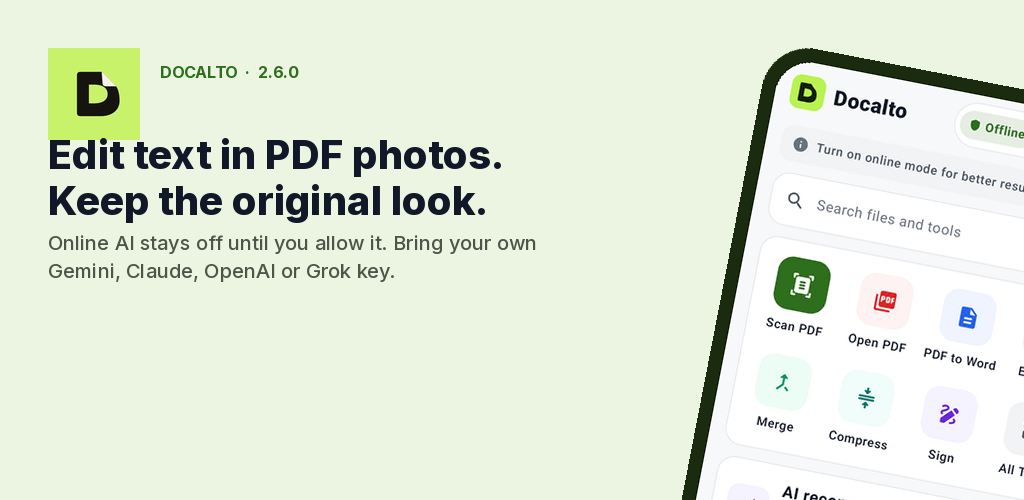
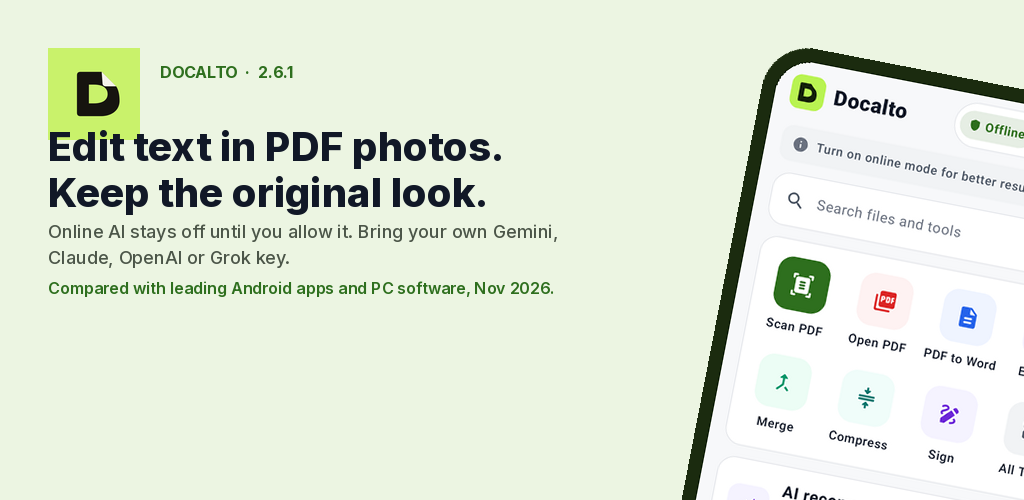
Docalto 2.6.1: Android and PC comparison, softer terms changelog, and screenshots

Changed region(s): [[0.0312, 0.24, 0.5625, 0.6], [0.2812, 0.12, 0.3125, 0.15]]

diff --git a/COMPARISON.md b/COMPARISON.md
@@ -1,12 +1,20 @@
+# Docalto compared with leading Android apps and PC software
+
+Factual comparison, not a ranking. Researched 25 November 2026 (Android) and 26 November 2026 (PC), Asia/Calcutta (IST). Staged for the 2.6.1 release; do not publish until the rebuild is ready.
+
+“Only in Docalto” is limited to the leading Android apps compared in November 2026. It is not a claim that no desktop product has a related function. Several desktop products go further as professional PDF or office software. Foxit PDF Editor’s official 2026.2 pages describe Local AI and a customer-configured OpenAI-compatible model. PDF24 Creator is a free Windows toolkit that officially keeps files on the PC.
+
+---
+
 # Docalto 2.6.0 compared with leading Android document apps
 
 Researched on **25 November 2026** (Asia/Calcutta, IST) for Docalto 2.6.0 (versionCode 16), package `com.tordroid.docalto`. This is a factual comparison, not a ranking, and not a claim that Docalto replaces every desktop, cloud or office product.
 
-Docalto facts come from the 2.6.0 app, changelog and store listing. Competitor facts come from official help, pricing and Play listing pages fetched or searched on 25 November 2026. Source URLs are in [`sources.md`](sources.md). Where a fact could not be confirmed, it is listed under [Not verified](#not-verified) and is **not** used as a uniqueness claim.
+Docalto facts come from the 2.6.0 tree on branch `redesign-2.6` (`CHANGELOG.md`, `STORE_LISTING.md`, `FEATURES.md`, `PRIVACY_POLICY.md`, and the All Tools list in `HomeShell.kt`). Competitor facts come from official help, pricing and Play listing pages fetched or searched on 25 November 2026. Source URLs are in [`sources.md`](sources.md). Where a fact could not be confirmed, it is listed under [Not verified](#not-verified) and is **not** used as a uniqueness claim.
 
 Prices change by country and over time, so this document describes paywalls (free limits, subscriptions, ads, watermarks) rather than exact rupee or dollar amounts.
 
-A scrollable comparison table is on the website: [docalto.tordroid.com/#compare](https://docalto.tordroid.com/#compare).
+A website-ready HTML table is in [`comparison-table.html`](comparison-table.html). Short Play and in-app wording is in [`short-versions.md`](short-versions.md).
 
 ## What Docalto 2.6.0 actually does
 
@@ -108,3 +116,117 @@ These were looked for and could not be confirmed from official pages in this pas
 ## Limits of these claims
 
 Docalto is Android-only. WPS, Acrobat, iLovePDF, Xodo and Microsoft products cover more platforms. WPS and Microsoft 365 are fuller office suites. Acrobat Pro on the desktop remains a deeper professional PDF standard. Genius Scan and Adobe Scan may out-focus Docalto as dedicated cameras. This comparison does not measure OCR accuracy, scan quality, speed or battery use.
+
+---
+
+# Docalto compared with leading PC document software
+
+Researched on **26 November 2026** (Asia/Calcutta, IST) for Docalto 2.6.0 (versionCode 16). Same rows and marks as the Android comparison in [`comparison.md`](comparison.md). Factual, not a ranking. Official pages only; URLs are under [Sources](#sources). **Unknown** or **Not found** is not used as a uniqueness claim.
+
+The eight desktop products, as requested: **Adobe Acrobat Pro**, **WPS Office (PC)**, **Wondershare PDFelement**, **Foxit PDF Editor** (official 2026.2), **Nitro PDF Pro**, **PDF24 Creator** (Windows, 11.35.0), **Microsoft Word / Microsoft 365**, and **ABBYY FineReader PDF**.
+
+Marks: **Yes** = official pages describe it. **Paid** = behind a subscription or licence. **Cloud** = uploaded or saved to that company’s storage by default. **Mixed** = depends on the tool, or both a local and a cloud path exist. **Not found** = not described on the official pages read in this pass. **Unknown** = the pages do not settle the point. Prices are described as paywalls, not exact amounts.
+
+## Key points
+
+- Several desktop products go **further** than Docalto as professional PDF or office software. Acrobat Pro, FineReader PDF, Foxit, PDFelement and Nitro officially go deeper on typographic PDF work, OCR, redaction, comparison or batch jobs. WPS Office and Microsoft 365 Word are fuller office suites. That should be said first.
+- **Foxit PDF Editor** official 2026.2 pages describe Local AI on the device (after a Microsoft Foundry Local model download) and **Bring Your Own Model** for an OpenAI-compatible endpoint you configure. Press material also names GPT and Gemini. So “your own key” is not distinctive against every PC product. Acrobat’s official AI Assistant is Adobe’s own cloud assistant and needs an Adobe ID.
+- **PDF24 Creator** is a free Windows toolkit that officially works offline, keeps files on the PC, and needs no account (with named exceptions such as fax, Cloud Print, update checks and OCR language downloads). It is Windows-only, and typographic photo-text inpainting, permanent redaction and visual PDF compare were not found on the official Creator page.
+- Desktop OCR editors (especially Acrobat Pro and FineReader) officially make scanned pages searchable and editable, often with deeper typography and layout tools than a phone inpainting editor. Docalto-style inpainting of handwriting in a photo on a PDF page was **not found in those words** on the official PC pages read.
+- What remains honest for Docalto: a **phone** toolkit — 75 tools, no account, no document upload, 15 app languages including 11 widely used in India, photo-text inpainting on the device, and Online AI off until you allow it. Among **leading Android apps** (25 November 2026), that combination was not found in the same form. That Android finding still stands. It must not be stretched to mean “not on any PC.”
+- Still **not found in the same form** on the official PC pages in this pass (not a worldwide exclusive): File Rescue, a fill marked “Filled in, not recovered,” and offline India CCA signature checks.
+
+## Comparison table
+
+| Topic | Docalto 2.6.0 (Android) | Acrobat Pro (desktop) | WPS Office (PC) | PDFelement (desktop) | Foxit PDF Editor (desktop) | Nitro PDF Pro (desktop) | PDF24 Creator (Windows) | Word / Microsoft 365 (desktop) | ABBYY FineReader PDF (desktop) |
+| --- | --- | --- | --- | --- | --- | --- | --- | --- | --- |
+| What it is | PDF toolkit, scanner and on-device tools in one Android app | Professional desktop PDF editor for Windows and macOS | Full office suite (Writer, Sheets, Slides) plus a PDF editor, on Windows, macOS and Linux | Desktop PDF editor for Windows and macOS (a Windows licence cannot be used on a Mac) | Desktop PDF editor for Windows and macOS (official 2026.2 line at this pass) | Desktop PDF editor for Windows and macOS (official Windows 26.4.4.1, 24 Nov 2026) | Free Windows-only PDF toolkit, virtual PDF printer and reader. No official macOS or Linux app | Desktop word processor that can open some PDFs by converting them, and can export to PDF. Not a full PDF editor | Desktop OCR and PDF editor. Windows Standard or Corporate; the Mac product has the same OCR and a more limited PDF set |
+| Offline-first / where files are processed | Yes. Documents are processed on the phone and are not uploaded. Model packs and an optional signature timestamp (hash only) may use the network. | Mixed. Official FAQ: the desktop app is installed locally and can be used offline after first activation; a subscription must reconnect periodically (typically every 30 days). AI Assistant requires an internet connection and a signed-in Adobe ID. E-sign and sharing need a network. Official: IT can turn off cloud services. Acrobat Pro 2024 is described as desktop-only, without Document Cloud or AI. | Mixed. Local PDF editing is a desktop-app feature. Official Windows guides: editing and OCR require WPS membership. Cloud sync, sharing and WPS AI need the network when you use them. Where OCR actually runs (device or server) was not fully confirmed. | Mixed. Official tech spec: an internet connection is required for activation, help, translation, cloud functions and live updates. Ordinary editing is a local desktop app. PDFelement Cloud is an optional path. Where AI-OCR runs was not fully confirmed. | Mixed. Core editing is a local desktop app. Official Local AI (2026.2): after you download a model through Microsoft Foundry Local, supported inference, processing and storage stay on the device and can work offline. Cloud mode, Skills, MCP connectors and “edit a PDF by chat” are official cloud-mode features. Bring Your Own Model sends requests to the endpoint you configure. | Mixed. A licensed desktop editor for create, edit, export and OCR. Official Smart Redact (a separate add-on) “processes files in a temporary session with no storage or data retention,” which is not the same as a purely local edit. The default edit path is not described as clearly as PDF24’s “files are not uploaded” wording. | Yes. Official: a desktop solution that works offline; files remain on the PC and are not uploaded. Official help names exceptions that do go online: fax, Cloud Print, the update check, downloading OCR language data, and links to the online tools. | Mixed. Desktop Word works on local files. A Microsoft account is used for a Microsoft 365 subscription and for Copilot. Official “Save as PDF” can offer OneDrive as a location. Copilot is an online Microsoft service. | Mixed. FineReader PDF is licensed desktop software for local OCR and PDF work. No official page in this pass said ordinary OCR uploads the document. Licence activation or any optional online service was not fully mapped, so the licence phone-home is Unknown. |
+| Account required | No | Yes, for the usual subscription: official pages say you sign in with an Adobe ID to install, activate and, periodically, to validate the licence. An Adobe ID is also required for AI Assistant and for cloud / e-sign services. Acrobat Pro 2024 official: after first activation it can be used without Document Cloud services. | Not required for installing and opening files. Official guides: PDF content editing and OCR on Windows require WPS membership. A WPS account is used for cloud and some AI features. | Not required to download and try the app. A licence / registration is required to remove trial limits. A Wondershare ID is used for cloud, sharing and AI trials on official store and register pages. | A licence is required for PDF Editor. Official Local AI is included in Editor and also in the free Foxit PDF Reader on desktop. Sign-in requirements for Foxit AI Assistant cloud plans were not fully mapped (Mixed). | Official downloads page: an active Nitro subscription or licence is required to use the product. | No | A Microsoft account is required for a current Microsoft 365 subscription and for Copilot. Once installed, desktop Word can open local files. | A paid Standard or Corporate (or Mac) licence is required. Whether a FineReader account is also required for the desktop app was not fully confirmed (Unknown). |
+| Files leave the device by default | No | No, for ordinary local editing after the app is installed. Yes if you use Adobe cloud storage, AI Assistant, or other official online services. | No, for ordinary local work. Yes if you use WPS cloud, sharing or WPS AI. | No official page in this pass said unsaved local editing uploads the file by default. Yes if you use PDFelement Cloud, translation (officially needs internet) or online AI features. | No, for ordinary local editing, and no for official Local AI after the model is downloaded. Yes for Cloud mode. Yes for Bring Your Own Model, which official pages say sends requests to the external service you configure. | Unknown for ordinary editing. Official Smart Redact uses a temporary session with no retained storage. | No, with the official exceptions listed above. | No, if you save a PDF to a folder on the computer. Yes if you save to OneDrive or use Copilot. | Not found as a default upload for ordinary local OCR or edit. Unknown for any optional online extras. |
+| Bring-your-own AI key (Gemini, Claude, OpenAI, Grok / xAI) | Yes. Optional, off until you turn Online mode on. Keys stay encrypted on the phone. Gemini, Claude, OpenAI, xAI, or an OpenAI-compatible service. | Not found. Official AI Assistant is Adobe’s own assistant. It requires being online, signed in with an Adobe ID, and a plan or add-on that enables generative AI. A customer-supplied Gemini, Claude, OpenAI or Grok key was not found. | Not found. Official pages describe WPS AI (summarise, translate, explain, ask questions). A customer-supplied key for those providers was not found. | Not found. Official feature list describes built-in AI (ask, summarise, rewrite, translate, proofread). A customer-supplied key for Gemini, Claude, OpenAI or Grok was not found. | Yes, in official 2026.2 material, as Bring Your Own Model / an OpenAI-compatible endpoint. Official Local AI page: you can point Local AI at an OpenAI-compatible model you already run or pay for; “Requests go to the external service you configure.” Official 1 September 2026 press and the product comparison datasheet also name GPT and Gemini among supported models. This is not identical to Docalto’s phone-side, encrypted, off-until-allowed key list (Claude and Grok were not named on the pages read), but it is a real customer-configured model path on the desktop. Local mode itself uses models from Microsoft Foundry Local, which is a different path from bringing your own key. | Not found as a customer-supplied Gemini, Claude, OpenAI or Grok key. Official Smart Redact is a Nitro AI add-on, not a key you supply. | Not found. Official Creator pages in this pass do not describe a generative AI assistant or a customer-supplied model key. | Not found. Official Microsoft 365 desktop Word uses Microsoft Copilot, not a customer-supplied key for those providers. | Not found in FineReader PDF official pages. ABBYY Vantage (a different product) describes customer provider keys; that was not treated as a FineReader PDF feature. |
+| Edit text that appears inside photos or scans in a PDF | Yes. On-device OCR and inpainting; optional online style reading when Online mode is on. Aims to keep the original font, size, colour and handwriting. | Paid / Yes for scanned-page editing. Official: OCR turns scans into searchable and editable PDFs, “recognize[s] fonts and formatting, so the new PDF matches your original paper document,” and you can make edits on the spot. This is a deep desktop scan editor. In-place inpainting of a photo that sits on a PDF page, described in Docalto’s handwriting-matching words, was not found on the pages read. | Paid. Official Windows OCR guide: turn scanned PDF text into selectable, searchable and editable text; some scans need OCR first; membership is required. Inpainting of photo text in Docalto’s form was not found. | Paid. Official: AI-OCR on scans; “Edit, delete, cut, copy, paste, and insert new text and images in scanned (image) PDFs using OCR.” Inpainting of photo-in-PDF text in Docalto’s form was not found. | Paid. Official datasheet: OCR, and “Editable Text mode turns OCR output into a fully paragraph-editable document.” Inpainting wording was not found. | Paid. Official: OCR converts scans or image PDFs into searchable, editable text (including a hidden text layer), with batch OCR and deskew tools. Inpainting wording was not found. | Mixed. Official: OCR recognises text in PDFs and images and creates a PDF with a text layer. Full typographic, in-place editing of handwriting inside a photo on a page was not found on the Creator page. | Limited. Official Microsoft help: Word opens a PDF by converting a copy; “This works best with PDFs that are mostly text”; “PDFs of book chapters or something that looks like a manuscript from a copier won’t be formatted well.” Image-based text may not be editable. | Paid / Yes for scanned-page editing. Official: edit scanned PDFs almost like a Word document, rewrite paragraphs, edit table cells, reflow text, and use an Eraser tool. Professional OCR in 198 languages. This is a deep desktop scan editor. Docalto-style inpainting of handwriting in a photo on a PDF page was not found in those words. |
+| Flows / automation | Yes. On-device Flow: chain tools, ready-made flows, and AI steps. | Yes, Paid. Official plans page: Action Wizard in Acrobat Pro runs custom sequences (for example OCR, redaction, watermarking and conversion) on multiple PDFs; batch processing applies the same edits or security settings across documents. | Not found as a user-built, first-class PDF tool pipeline on the official PC pages read. | Paid. Official: batch process — convert, create, compress, edit, encrypt, extract data and print multiple PDFs at once. | Mixed / Cloud for the newest automation. Official 2026.2: Skills complete recurring document tasks; MCP connectors exist in Workspace / cloud mode. Official Local AI table: Skills and MCP are not available in Local mode. | Paid, in part. Official: batch OCR. A general user-built action wizard was not fully mapped in this pass. | Yes, for recurring desktop jobs. Official: profiles for recurring tasks, batch file tools, and PDF printer profiles. | Not found as a PDF tool pipeline. Word has its own document automation; that is not a PDF Flow. | Mixed. Official Corporate materials describe advanced conversion routines. A user-built Flow-style designer was not clearly described in this pass. |
+| Size of the toolkit | 75 tools listed in All Tools, including merge, split (including by size), compress, edit, forms, OCR, convert, PDF/A, compare, repair, File Rescue, signatures, study tools and Flow. | A large professional PDF toolkit. Official pages cover edit, OCR, convert to and from Office, compress, merge and split, redact, compare, e-sign workflows, Action Wizard, passwords and permissions. Deeper than Docalto for professional desktop PDF work. | A full office suite plus PDF tools (edit, merge, split, compress, OCR, convert, sign). Broader as an office suite than Docalto; PDF depth depends on the Premium feature set. | A large desktop PDF toolkit. Official feature and tech-spec pages cover edit, AI-OCR, annotate, convert, forms, batch, Bates numbering, compress, sign, headers, watermarks and more. | A large desktop PDF toolkit. Official datasheet: edit, organise, compare, OCR, export, forms and XFA, passwords and certificates, redaction, PDF/A, PDF/E and PDF/X, accessibility tagging, portfolios, and AEC measurement tools. | A large desktop PDF and e-sign suite. Official pages: create, edit, export, combine and split, password security, OCR, redaction; document comparison is listed in official macOS 26 release notes. | A large free Windows toolkit. Official: merge, split, page organise, convert, compress, OCR, PDF/A and PDF/X, PDF printer, scanner and camera import, screen capture, batch tools, passwords, watermarks and signatures as save options. Some professional tools (permanent redaction, visual PDF compare, typographic in-place edit) were not found on the Creator page. | A full word processor and office suite, with PDF as an import-by-conversion and export format, not a 75-tool PDF workshop. Official: Save as PDF, including a PDF/A option, and password-encrypt the PDF. | A deep OCR, conversion and PDF-editing toolkit. Official Corporate Windows also adds document comparison across formats. Mac official: same OCR, limited PDF features. |
+| App / interface languages, including Indian languages | 15 app languages: English, Hindi, Bengali, Gujarati, Kannada, Malayalam, Marathi, Odia, Punjabi, Tamil, Telugu, Urdu, Arabic, Russian and Simplified Chinese (11 of these are widely used in India). | Unknown. Widely localised as a product. A complete official count of Indian interface languages was not re-counted in this pass. Official generative-AI file languages are a shorter list and are not the same as the app UI list. | Unknown. Widely localised. A complete official Indian-language UI count was not re-counted. Official WPS AI translate claims 100+ target languages; that is translation, not the app UI. | Unknown. Widely localised. Official AI translate: “50+ languages.” A complete official Indian-language UI count was not re-counted. | Unknown. Widely localised. A complete official Indian-language UI count was not re-counted. | Unknown. A complete official UI language list was not re-counted. Official OCR pages mention legal and medical dictionaries; that is not a UI language list. | Unknown. Official marketing says “Many translations.” A complete official Indian-language UI count was not found. | Unknown. Microsoft 365 is widely localised. A complete official Indian-language UI count was not re-counted. | Official OCR: 198 recognition languages. Official Corporate comparison: 40 comparison languages. The complete official UI language list, including Indian scripts, was not re-counted. |
+| Price (typical paywall) | Free to install. Some tools may show a rewarded ad or a daily cap. Premium removes ads and limits. No document watermark. | Paid subscription for current Acrobat Pro (plans also describe Acrobat Standard, and Acrobat Studio which adds AI Assistant and other extras). AI Assistant is a plan feature or add-on on official plan pages. A separate Acrobat Pro 2024 3-year term licence is sold without cloud or AI. | Free to install the suite. Official Windows guides: PDF content editing and OCR require WPS membership / Premium. | Paid licence or subscription, sold per platform. Official support: the unregistered trial adds a watermark when you save an edited PDF; registering / licensing removes it. | Paid Editor licence or subscription. Official: Local AI is included at no extra cost in PDF Editor and in the free Foxit PDF Reader on desktop, and uses no AI credits. Official Foxit AI Assistant has its own subscription plans for cloud AI. | Paid. Official plans: Nitro PDF Standard, Plus, and Classic (a three-year Windows term for core tools). Official: Smart Redact is a separate add-on subscription. | Official: completely free, with no restrictions, including for companies, authorities and agencies. Official help: there is no paid version of Creator. (PDF24 also offers free online tools, which upload files; that is a different product.) | Current official desktop Word requires a Microsoft 365 subscription. Older perpetual Office versions exist; they were not fully mapped in this pass. Copilot is a Microsoft 365 feature, not a customer-supplied key. | Paid Windows Standard or Corporate licence, or the separate Mac product. Official pricing distinguishes the Mac product as having a limited PDF feature set. |
+| Ads | Yes, for free users (AdMob, including rewarded ads). Premium has no ads. Documents are not sent to the ad network. | Not found. Official monetisation is subscription or term licence, not described as ad-supported desktop editing. | Unknown for the PC app in this pass. (The Android Play listing contains ads; that is not evidence about the desktop app.) | Not found as desktop ads. The official trial limitation described in support is a save watermark, not an ad network. | Not found. Official monetisation is a licence or AI subscription, not described as ad-supported editing. | Not found. Official monetisation is a licence, subscription or add-on. | Not found. Official pages describe a free product and do not describe ads in Creator. | Not found. Official monetisation is a Microsoft 365 subscription. | Not found. Official monetisation is a licence. |
+| Watermark on your files | Never added by Docalto. You can add your own watermark if you choose. | Not found as a default export watermark on a licensed official copy. You can add a watermark as a tool. | Not found as a systematic free-export watermark on the official PC pages read. | Paid / Yes on the unregistered trial. Official support: the trial adds a watermark when you save an edited PDF; a licensed copy removes it. | Not found as a default export watermark on a licensed official copy. You can add a watermark as a tool. | Not found as a default export watermark on a licensed official copy. | Not found as a mandatory export watermark. Official: watermark is an optional save setting. | Not found as a Microsoft watermark on a PDF you export yourself. | Not found as a default export watermark on a licensed official copy. Official feature list includes adding or deleting watermarks as a tool. |
+| OCR | Yes, on the phone (including Latin and Devanagari, with further script packs). Pro in the usual plan; online extras stay optional. | Paid. Official: OCR turns scans into searchable and editable PDFs and can recognise fonts and formatting. | Paid. Official Windows guide: OCR PDF is a Premium / membership feature. | Paid. Official: AI-OCR for scans, tables and complex layouts. | Paid (Editor). Official datasheet: OCR, including an Editable Text mode for scanned documents. | Paid. Official: automatic, manual or batch OCR, with deskew and contrast tools, and legal / medical dictionaries. | Yes, included and official free. Official manual: Tesseract is bundled; language data for text recognition may be downloaded when needed. | Not found as a dedicated OCR-for-PDF tool in official desktop Word help. Official PDF opening is a conversion of a text-based PDF, and official help warns that copier-like scans will not convert well. | Yes, Paid, and officially deep. Official: OCR in 198 languages; advanced area correction and checks; the Mac product keeps the same OCR capabilities. |
+| Scan to PDF | Yes. Google scanner on most phones (no camera permission); in-app camera scanner on phones without Google Play services. | Official pages in this pass focus on turning existing scans into searchable, editable PDFs. A connected-scanner “Create PDF from scanner” workflow is a long-standing Acrobat tool, but that specific help page was not re-opened in this pass, so it is left as Unknown rather than Yes. | Not found as a dedicated scanner module on the official PC PDF pages read. | Official pages describe creating PDFs from images and scans. A connected-scanner workflow was not fully confirmed in this pass (Unknown). | Not found as a dedicated connected-scanner module on the official pages read in this pass (Unknown). | Not found as a dedicated connected-scanner module on the official pages read in this pass (Unknown). | Yes. Official: import images from a scanner or camera and create a PDF. | Not found as a document scanner in official desktop Word help. Microsoft Lens stopped creating new scans on 9 March 2026; Microsoft’s current mobile path is the OneDrive scanner, which is not this desktop product. | Yes. Official Windows pages describe digitising paper documents. Official Mac pages describe capturing documents with an iPhone and editing them on the Mac, plus built-in photo and scan enhancement. |
+
+## Not verified
+
+Where OCR actually runs for WPS, PDFelement and Nitro; complete official Indian-language UI counts; exact prices; whether Foxit BYOM officially accepts Claude or Grok, or only the GPT/Gemini family named in press material plus a generic OpenAI-compatible URL; Acrobat’s connected-scanner help page (OCR-on-scans is official; the scanner button was not re-opened); and whether any compared PC product already offers File Rescue, a labelled fill, offline India CCA checks, or handwriting inpainting inside a photo on a PDF page.
+
+This comparison does not measure OCR accuracy, speed or typography quality. Vendor marketing superlatives are not repeated as facts.
+
+## Sources
+
+Collected on **26 November 2026** (Asia/Calcutta, IST). Store prices and feature lists change; re-check the live page before repeating a number in a new listing.
+
+### Adobe Acrobat Pro (desktop)
+
+- [https://www.adobe.com/acrobat/acrobat-pro.html](https://www.adobe.com/acrobat/acrobat-pro.html)
+- [https://www.adobe.com/acrobat/features/modify-pdfs.html](https://www.adobe.com/acrobat/features/modify-pdfs.html) (edit, annotate, compress, OCR, merge and split)
+- [https://www.adobe.com/acrobat/plans.html](https://www.adobe.com/acrobat/plans.html) (Standard / Pro / Studio; Action Wizard and batch processing; AI Assistant in higher plans)
+- [https://helpx.adobe.com/acrobat/faq.html](https://helpx.adobe.com/acrobat/faq.html) (updated 30 April 2026: local desktop install, first-launch activation, periodic sign-in, e-sign and sharing need a connection, cloud services can be disabled)
+- [https://helpx.adobe.com/document-cloud/kb/internet-connectivity-and-offline-grace-period---acrobat-dc.html](https://helpx.adobe.com/document-cloud/kb/internet-connectivity-and-offline-grace-period---acrobat-dc.html) (updated 30 April 2026: first activation online; typical 30-day subscription validation)
+- [https://helpx.adobe.com/acrobat/faq-acrobat-pro-2024.html](https://helpx.adobe.com/acrobat/faq-acrobat-pro-2024.html) (Acrobat Pro 2024 term licence, desktop-only, no Document Cloud or AI)
+- [https://helpx.adobe.com/acrobat/desktop/use-acrobat-ai/get-started-with-generative-ai/ai-tech-requirements.html](https://helpx.adobe.com/acrobat/desktop/use-acrobat-ai/get-started-with-generative-ai/ai-tech-requirements.html) (updated 1 September 2026: AI Assistant requires being online and signed in)
+- [https://helpx.adobe.com/acrobat/desktop/whats-new/whats-new-acrobat-desktop.html](https://helpx.adobe.com/acrobat/desktop/whats-new/whats-new-acrobat-desktop.html) (updated 29 October 2026)
+
+### WPS Office (PC)
+
+- [https://www.wps.com/office/pdf/](https://www.wps.com/office/pdf/)
+- [https://www.wps.com/feature/](https://www.wps.com/feature/)
+- [https://www.wps.ai/en-us/docs/wps-pdf/quick-start/editing-area/windows/how-to/](https://www.wps.ai/en-us/docs/wps-pdf/quick-start/editing-area/windows/how-to/) (updated 6 July 2026: PDF editing requires WPS membership)
+- [https://www.wps.ai/en-us/docs/wps-pdf/content-editing/ocrpdf/windows/introduction/](https://www.wps.ai/en-us/docs/wps-pdf/content-editing/ocrpdf/windows/introduction/) (updated 6 July 2026: OCR requires membership)
+
+### Wondershare PDFelement (desktop)
+
+- [https://pdf.wondershare.com/features.html](https://pdf.wondershare.com/features.html)
+- [https://pdf.wondershare.com/tech-spec.html](https://pdf.wondershare.com/tech-spec.html) (OS support, internet required for activation, help, translation, cloud and updates; scanned-PDF editing with OCR; batch, Bates, forms)
+- [https://pdf.wondershare.com/download.html](https://pdf.wondershare.com/download.html)
+- [https://support.wondershare.com/how-tos/pdfelement/can-a-pdfelement-license-be-used-across-the-platform.html](https://support.wondershare.com/how-tos/pdfelement/can-a-pdfelement-license-be-used-across-the-platform.html) (licences are not cross-platform)
+- [https://support.wondershare.com/how-tos/pdfelement/how-to-remove-the-trial-watermark-of-pdfelement.html](https://support.wondershare.com/how-tos/pdfelement/how-to-remove-the-trial-watermark-of-pdfelement.html)
+- [https://pdf.wondershare.com/guide/register-pdfelement.html](https://pdf.wondershare.com/guide/register-pdfelement.html)
+
+### Foxit PDF Editor (desktop)
+
+- [https://www.foxit.com/company/press/12241/](https://www.foxit.com/company/press/12241/) (1 September 2026: PDF Editor 2026.2, Local AI, Bring Your Own Model, GPT and Gemini named)
+- [https://www.foxit.com/ai/local-ai/](https://www.foxit.com/ai/local-ai/) (Local mode vs Cloud mode table; OpenAI-compatible BYOM; Local AI included in Editor and in free desktop Reader)
+- [https://www.foxit.com/blog/foxit-pdf-editor-2026-2-local-ai/](https://www.foxit.com/blog/foxit-pdf-editor-2026-2-local-ai/)
+- [https://cdn01.foxitsoftware.com/pub/foxit/datasheet/phantom/en_us/Foxit-PDF-Editor.pdf](https://cdn01.foxitsoftware.com/pub/foxit/datasheet/phantom/en_us/Foxit-PDF-Editor.pdf) (datasheet v2026.2, specifications as of 31 August 2026)
+- [https://cdn01.foxitsoftware.com/pub/foxit/datasheet/general/en_us/pdf-products-comparison.pdf](https://cdn01.foxitsoftware.com/pub/foxit/datasheet/general/en_us/pdf-products-comparison.pdf)
+
+### Nitro PDF Pro (desktop)
+
+- [https://www.gonitro.com/pdf](https://www.gonitro.com/pdf)
+- [https://www.gonitro.com/ocr](https://www.gonitro.com/ocr)
+- [https://www.gonitro.com/pricing](https://www.gonitro.com/pricing) (Standard, Plus, Classic; Smart Redact add-on; temporary session, no retention)
+- [https://www.gonitro.com/user-guide/pro/article/redaction-in-a-pdf-file](https://www.gonitro.com/user-guide/pro/article/redaction-in-a-pdf-file)
+- [https://www.gonitro.com/documentation/product-downloads](https://www.gonitro.com/documentation/product-downloads) (Windows 26.4.4.1, 24 November 2026; macOS 26.4, 7 October 2026; licence required)
+
+### PDF24 Creator
+
+- [https://tools.pdf24.org/en/creator](https://tools.pdf24.org/en/creator) (version 11.35.0, 20 November 2026: free, offline, files stay on the PC, Windows only)
+- [https://creator.pdf24.org/manual/11/](https://creator.pdf24.org/manual/11/)
+- [https://help.pdf24.org/en/pdf24-creator-silent-setup/](https://help.pdf24.org/en/pdf24-creator-silent-setup/) (offline, with named exceptions)
+- [https://help.pdf24.org/en/how-to-create-pdf-files-with-pdf24/](https://help.pdf24.org/en/how-to-create-pdf-files-with-pdf24/)
+
+### Microsoft Word / Microsoft 365 (desktop)
+
+- [https://support.microsoft.com/en-us/word/training/edit-a-pdf](https://support.microsoft.com/en-us/word/training/edit-a-pdf)
+- [https://support.microsoft.com/en-us/office/collab-files/save-or-convert-to-pdf-or-xps-in-office-desktop-apps](https://support.microsoft.com/en-us/office/collab-files/save-or-convert-to-pdf-or-xps-in-office-desktop-apps) (Save as PDF, PDF/A, password)
+- [https://support.microsoft.com/en-us/word/save-or-convert-to-pdf-on-your-mac](https://support.microsoft.com/en-us/word/save-or-convert-to-pdf-on-your-mac)
+- [https://www.microsoft.com/en/microsoft-365/word](https://www.microsoft.com/en/microsoft-365/word) (current desktop Word requires a Microsoft 365 subscription)
+- [https://support.microsoft.com/en-us/lens/retirement-of-microsoft-lens](https://support.microsoft.com/en-us/lens/retirement-of-microsoft-lens) (new Lens scans ended 9 March 2026)
+
+### ABBYY FineReader PDF (desktop)
+
+- [https://pdf.abbyy.com/finereader-pdf/](https://pdf.abbyy.com/finereader-pdf/)
+- [https://pdf.abbyy.com/finereader-pdf-for-mac/](https://pdf.abbyy.com/finereader-pdf-for-mac/)
+- [https://pdf.abbyy.com/how-to/compare-documents/](https://pdf.abbyy.com/how-to/compare-documents/) (Corporate, Windows)
+- [https://pdf.abbyy.com/pricing/](https://pdf.abbyy.com/pricing/)
+- [https://pdf.abbyy.com/media/uicccm1b/brochure-finereaderpdf-full-feature-list-en.pdf](https://pdf.abbyy.com/media/uicccm1b/brochure-finereaderpdf-full-feature-list-en.pdf) (feature list, revision 16 December 2025: 198 OCR languages; Corporate comparison; Mac limited PDF set)

diff --git a/README.md b/README.md
@@ -28,26 +28,33 @@
 </p>
 
 <p align="center">
-  <img src="assets/feature-graphic.png" width="820" alt="Docalto 2.6.0: edit photo text, optional Online AI, and your own AI key">
+  <img src="assets/feature-graphic.png" width="820" alt="Docalto 2.6.1: edit photo text, optional Online AI, and your own AI key">
 </p>
 
 1. **Edit text in photos.** Change words in a scanned page or a photo in your PDF, and keep the original font, size and colour. OCR and inpainting run on the phone.
 2. **Online AI, off until you allow it.** A switch covers AI, translation and cloud tools. When you turn it on, AI can step into tools, flows and search.
 3. **Your own AI key.** Gemini, Claude, OpenAI, Grok (xAI), or an OpenAI-compatible model. Keys stay encrypted on the phone. No Docalto account, and documents are not uploaded.
 
-The rest of the 2.6.0 toolkit, including Flow, backup, the update check and 75 All Tools entries, is listed below.
+The rest of the 2.6.1 toolkit, including Flow, backup, the update check and 75 All Tools entries, is listed below.
 
 > This repository holds Docalto's release notes, changelog, comparison and screenshots. It has **no source code and no keys**. Each release from 2.6.0 has the Play-signed universal APK, the same file Google Play delivers, so Google Play updates install over it.
 
-## Why Docalto
+## Why Docalto (Android & PC comparison)
 
-Docalto is an offline-first PDF toolkit and document scanner for Android. There is no account, and documents are not uploaded unless you turn on an online feature. Among the leading Android document apps compared in November 2026, we did not find this combination in the same form:
+Docalto is an offline-first PDF toolkit and document scanner for Android. There is no account, and documents are not uploaded unless you turn on an online feature.
 
-- Edit text in photos and scans on the phone, keeping the original look.
-- Online AI that can help in tools, flows and search, off until you allow it, with a key you supply for Gemini, Claude, OpenAI or xAI.
-- Plus File Rescue and rare image formats, a labelled fill for a cut-off photo, and offline signature checks against India's CCA roots.
+We compared Docalto against both **leading Android apps** (25 November 2026) and **leading PC software** (26 November 2026: Acrobat Pro, FineReader PDF, Foxit PDF Editor, PDFelement, Nitro PDF Pro, PDF24 Creator, WPS Office and Microsoft 365 Word):
 
-This is not a claim that no other product on earth has a related function. These tools are common on computers and on cloud websites. A full, sourced comparison (as of November 2026): [COMPARISON.md](COMPARISON.md). Docalto has no iOS or desktop app and no cloud sync, and it does not replace a desktop suite or a full office suite.
+- **Where PC tools go further:** Acrobat Pro, FineReader PDF, Foxit, PDFelement and Nitro go further as professional desktop PDF or OCR editors; WPS Office and Microsoft 365 Word are fuller office suites. Foxit's official 2026.2 pages describe Local AI on the device and a customer-configured OpenAI-compatible model. PDF24 Creator is a free Windows toolkit that officially keeps files on the PC, with no account.
+- **What stands for Docalto on Android:** Among the leading Android apps we compared in November 2026, we did not find this on-device combination: photo-text editing, Online AI off until you allow it with your own key (Gemini, Claude, OpenAI, Grok, or OpenAI-compatible), File Rescue and rare image formats, a labelled fill ("Filled in, not recovered"), and offline signature checks against India's CCA roots.
+
+“Only in Docalto” stays limited to the compared Android apps, not desktop software. Full sourced tables and URLs: [COMPARISON.md](COMPARISON.md). Docalto has no iOS or desktop app and no cloud sync.
+
+## New in 2.6.1
+
+- **Android + PC comparison** in Why choose Docalto, notes, and [COMPARISON.md](COMPARISON.md).
+- **All 2.6 screens in 15 app languages**, including Marathi, Gujarati, Bengali, Punjabi, Odia, Tamil, Telugu, Kannada, Malayalam, Arabic, Urdu, Russian and Simplified Chinese alongside English and Hindi.
+- **Friendlier Terms of use** (Good to know, Our responsibility, If these terms change), keeping the same legal effect.
 
 ## New in 2.6.0
 
@@ -134,29 +141,29 @@ All versions: [CHANGELOG.md](CHANGELOG.md) · [Releases](https://github.com/1tor
 
 ## Screenshots
 
-Docalto 2.6.0 — highlights
+Docalto 2.6.1 — highlights
 
 <p align="center">
-  <img src="assets/screenshots/2.6.0/en/01-phototext.png" width="180" alt="Edit text in a photo inside a PDF, keeping the original look">
-  <img src="assets/screenshots/2.6.0/en/02-online-ai.png" width="180" alt="Online AI stays off until you allow it, and can help in tools and search">
-  <img src="assets/screenshots/2.6.0/en/03-api-key.png" width="180" alt="Bring your own Gemini, Claude, OpenAI or Grok key">
-  <img src="assets/screenshots/2.6.0/en/04-recommends.png" width="180" alt="AI recommends the next step for a recent file">
+  <img src="assets/screenshots/2.6.1/en/01-phototext.png" width="180" alt="Edit text in a photo inside a PDF, keeping the original look">
+  <img src="assets/screenshots/2.6.1/en/02-online-ai.png" width="180" alt="Online AI stays off until you allow it, and can help in tools and search">
+  <img src="assets/screenshots/2.6.1/en/03-api-key.png" width="180" alt="Bring your own Gemini, Claude, OpenAI or Grok key">
+  <img src="assets/screenshots/2.6.1/en/04-recommends.png" width="180" alt="AI recommends the next step for a recent file">
 </p>
 
 <p align="center">
-  <img src="assets/screenshots/2.6.0/en/05-search.png" width="180" alt="Search tools, files, recents and flows by voice or text">
-  <img src="assets/screenshots/2.6.0/en/06-tools-flows.png" width="180" alt="All Tools and Flows">
-  <img src="assets/screenshots/2.6.0/en/07-privacy-backup.png" width="180" alt="Offline work with an encrypted local backup">
-  <img src="assets/screenshots/2.6.0/en/08-comparison.png" width="180" alt="Only in Docalto among compared Android apps, November 2026">
+  <img src="assets/screenshots/2.6.1/en/05-search.png" width="180" alt="Search tools, files, recents and flows by voice or text">
+  <img src="assets/screenshots/2.6.1/en/06-tools-flows.png" width="180" alt="All Tools and Flows">
+  <img src="assets/screenshots/2.6.1/en/07-privacy-backup.png" width="180" alt="Offline work with an encrypted local backup">
+  <img src="assets/screenshots/2.6.1/en/08-comparison.png" width="180" alt="How Docalto compares with leading Android apps and PC software, November 2026">
 </p>
 
 <p align="center">
-  <img src="assets/screenshots/2.6.0/en/09-highlights.png" width="180" alt="The three 2.6.0 highlights">
-  <img src="assets/screenshots/2.6.0/en/10-home.png" width="180" alt="The Studio Clean Home screen">
-  <img src="assets/screenshots/2.6.0/en/11-widgets.png" width="180" alt="Home screen widgets and app shortcuts">
+  <img src="assets/screenshots/2.6.1/en/09-highlights.png" width="180" alt="The three 2.6.0 highlights">
+  <img src="assets/screenshots/2.6.1/en/10-home.png" width="180" alt="The Studio Clean Home screen">
+  <img src="assets/screenshots/2.6.1/en/11-widgets.png" width="180" alt="Home screen widgets and app shortcuts">
 </p>
 
-Hindi captions for these shots are in [assets/screenshots/2.6.0/hi](assets/screenshots/2.6.0/hi) (`01-phototext.png` and the rest of that set).
+Hindi captions for these shots are in [assets/screenshots/2.6.1/hi](assets/screenshots/2.6.1/hi) (`01-phototext.png` and the rest of that set).
 
 <details>
 <summary>In-app screens from 2.6.0 (Home, Search, Tools, Files, Compress, Flows)</summary>
@@ -178,16 +185,16 @@ Hindi captions for these shots are in [assets/screenshots/2.6.0/hi](assets/scree
 <summary>हिन्दी में (Hindi in-app screens)</summary>
 
 <p align="center">
-  <img src="assets/screenshots/2.6.0/hi/01-home.png" width="200" alt="Home with AI recommends, Hindi">
-  <img src="assets/screenshots/2.6.0/hi/02-search.png" width="200" alt="Search by voice or text, Hindi">
-  <img src="assets/screenshots/2.6.0/hi/03-tools.png" width="200" alt="All tools, Hindi">
-  <img src="assets/screenshots/2.6.0/hi/04-files.png" width="200" alt="Files, Hindi">
+  <img src="assets/screenshots/2.6.1/hi/01-home.png" width="200" alt="Home with AI recommends, Hindi">
+  <img src="assets/screenshots/2.6.1/hi/02-search.png" width="200" alt="Search by voice or text, Hindi">
+  <img src="assets/screenshots/2.6.1/hi/03-tools.png" width="200" alt="All tools, Hindi">
+  <img src="assets/screenshots/2.6.1/hi/04-files.png" width="200" alt="Files, Hindi">
 </p>
 
 <p align="center">
-  <img src="assets/screenshots/2.6.0/hi/05-compress-tip.png" width="200" alt="My recommendation on Compress, Hindi">
-  <img src="assets/screenshots/2.6.0/hi/06-flows.png" width="200" alt="Flows, Hindi">
-  <img src="assets/screenshots/2.6.0/hi/07-home-dark.png" width="200" alt="Home, dark theme, Hindi">
+  <img src="assets/screenshots/2.6.1/hi/05-compress-tip.png" width="200" alt="My recommendation on Compress, Hindi">
+  <img src="assets/screenshots/2.6.1/hi/06-flows.png" width="200" alt="Flows, Hindi">
+  <img src="assets/screenshots/2.6.1/hi/07-home-dark.png" width="200" alt="Home, dark theme, Hindi">
 </p>
 
 </details>

diff --git a/release-notes/v2.6.1.md b/release-notes/v2.6.1.md
@@ -1,0 +1,17 @@
+# Docalto 2.6.1
+
+**versionName:** `2.6.1` · **versionCode:** `17` · **26 November 2026** (Asia/Calcutta, IST)
+
+Highlights-first update building on 2.6.0:
+
+1. **Edit text in photos.** Change words in a scanned page or a photo in your PDF, keeping the original font, size and colour on the phone.
+2. **Online AI, off until you allow it.** One switch covers AI, translation and cloud tools, stepping into tools, flows and search when you turn it on.
+3. **Your own AI key.** Gemini, Claude, OpenAI, Grok (xAI), or an OpenAI-compatible model, encrypted on the phone.
+
+### Changes in 2.6.1
+
+- **Android + PC comparison:** Why choose Docalto now compares Docalto with leading Android apps and PC software (Acrobat Pro, FineReader PDF, Foxit PDF Editor, PDFelement, Nitro PDF Pro, PDF24 Creator, WPS Office and Microsoft 365 Word), notes where desktop tools go further, and keeps “Only in Docalto” limited to the compared Android apps. See [COMPARISON.md](../COMPARISON.md).
+- **15 languages:** All 2.6 screens are now translated into all 15 app languages (Marathi, Gujarati, Bengali, Punjabi, Odia, Tamil, Telugu, Kannada, Malayalam, Arabic, Urdu, Russian and Simplified Chinese, alongside English and Hindi).
+- **Friendlier Terms of use:** Sections 6–8 (Good to know, Our responsibility, If these terms change) use clearer wording with the same legal effect.
+
+*Play-signed universal APK for 2.6.1 will be attached once 2.6.1 finishes Google Play upload and signing; until then, the latest Play-signed universal APK is on [v2.6.0](v2.6.0.md).*

diff --git a/CHANGELOG.md b/CHANGELOG.md
@@ -4,6 +4,14 @@ All user-facing changes to Docalto, newest first. Per-version notes are in [rele
 
 This repository starts at **1.1.0** (versionCode 2), imported on 1 November 2026. There is no 1.0.x tag or version name in the git history. Version codes that shipped under a version name are listed with that name. **1.3.0** was development work on this branch. It was renamed to **2.0.0** before any 1.3.0 release.
 
+## 2.6.1
+
+versionName **2.6.1**, versionCode **17**. 26 November 2026 (Asia/Calcutta, IST).
+
+- Why choose Docalto in Settings is refreshed with the November 2026 comparison against both leading Android apps and PC software (Acrobat Pro, FineReader PDF, Foxit, PDFelement, Nitro, PDF24 Creator, WPS Office and Microsoft 365 Word), states where desktop tools go further, and keeps “Only in Docalto” limited to the Android apps compared.
+- The screens added in 2.6 are translated into all 15 app languages: Marathi, Gujarati, Bengali, Punjabi, Odia, Tamil, Telugu, Kannada, Malayalam, Arabic, Urdu, Russian and Simplified Chinese, alongside English and Hindi.
+- Terms of use: sections 6 to 8 (Good to know, Our responsibility, If these terms change) use friendlier, clearer wording with the same legal effect.
+
 ## 2.6.0
 
 versionName **2.6.0**, versionCode **16**. 25 November 2026 (Asia/Calcutta, IST).
